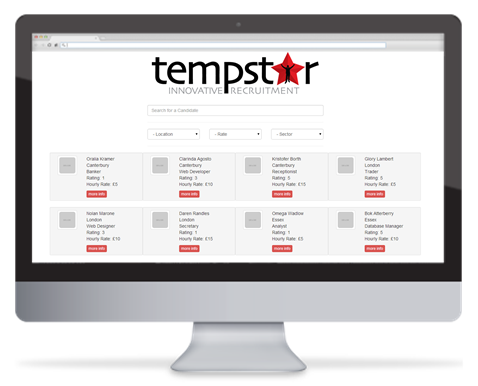
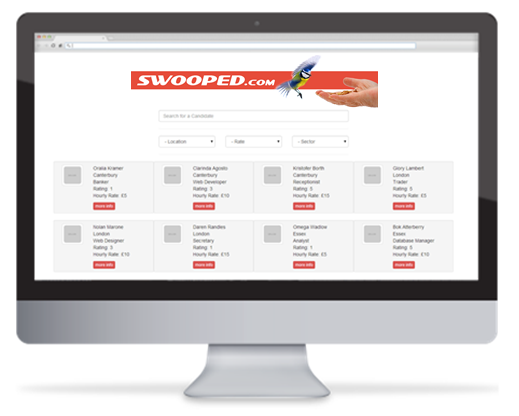
swoop first concept

diff --git a/index.html b/index.html
@@ -1,7 +1,7 @@
 <!DOCTYPE html>
 <html>
   <head>
-    <title>Temp Star - Dive into our pool of thousands of temps to find the perfect match!</title>
+    <title>Swooped - Dive into our pool of thousands of temps to find the perfect match!</title>
     <meta name="viewport" content="width=device-width, initial-scale=1.0">
     <!-- Bootstrap -->
     <!-- Latest compiled and minified CSS -->
@@ -34,12 +34,7 @@ body{
   </head>
   <body>
       <div class="container">
-    <div class="navbar" role="navigation">
-        <div class="navbar-header">
-          <a class="navbar-brand" href="#"><img src="tempstar.png"></a>
-        </div>
-      </div>
-      <hr>
+    <img src="banner.png" style="width: 100%;">
   		<div class="row">
 
   			<div class="col-lg-12 heading">
@@ -176,7 +171,7 @@ body{
 				    <img src="clock.png" class="img-rounded">
             <hr>
               <h2>Convenient</h2>
-              <p>Dodge the annoying sales calls and make your hiring decisions when you want to. Temp Star is compatible with PC, mobile and tablet - you can hire a new temp in meeting on your phone, hire a contractor on the train or search for freelancers at your desk!</p>
+              <p>Dodge the annoying sales calls and make your hiring decisions when you want to. Swooped is compatible with PC, mobile and tablet - you can hire a new temp in meeting on your phone, hire a contractor on the train or search for freelancers at your desk!</p>
 			</div>
   		</div>
   		<hr>
